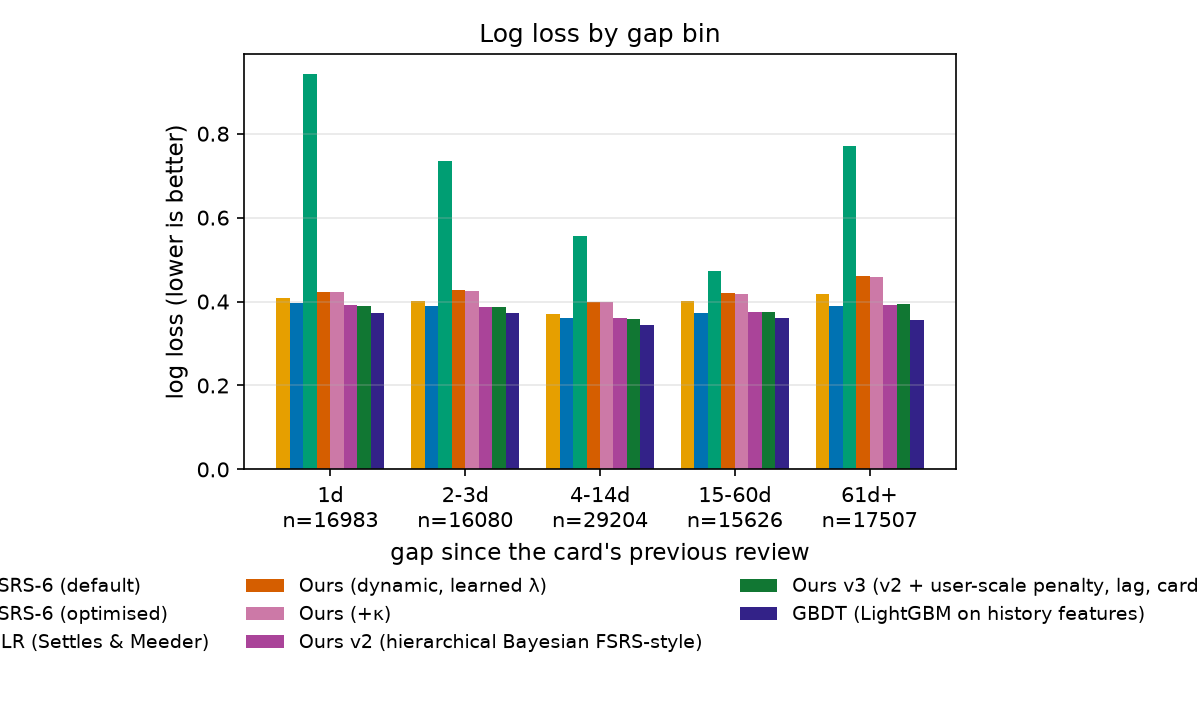
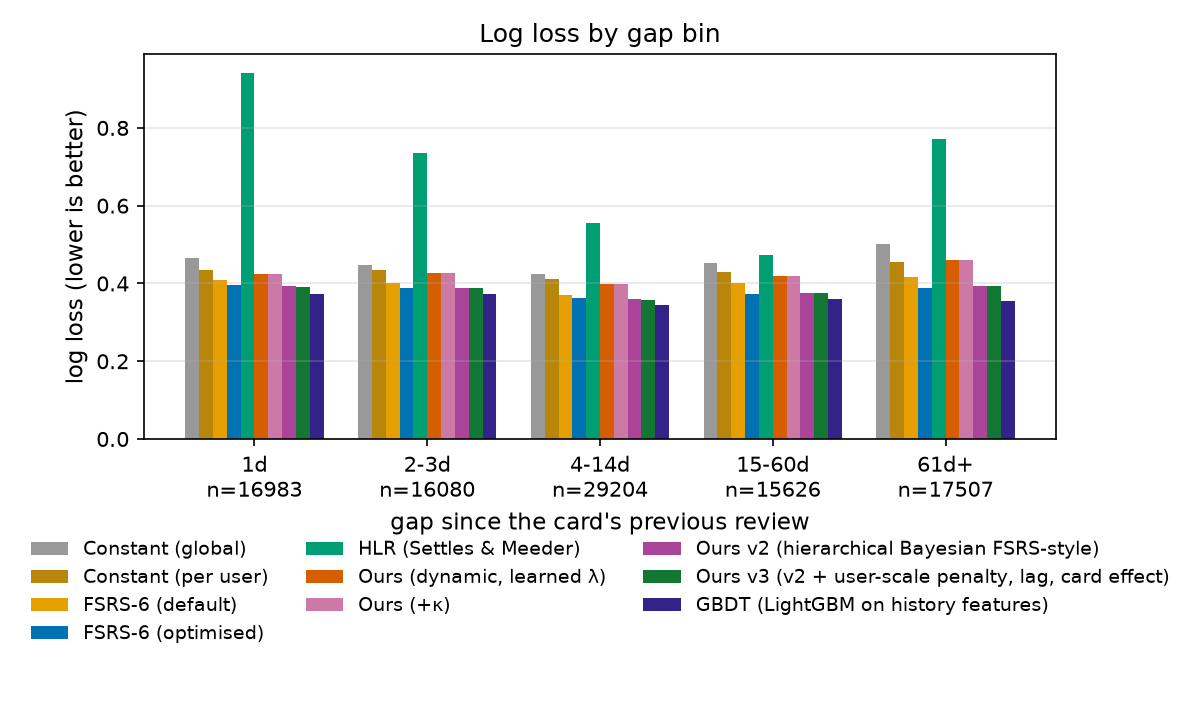
Paper phase 1 closed: report; Anki final report rebuilt with constants

Changed region(s): [[0.0, 0.0917, 1.0, 0.9167], [0.0925, 0.5806, 0.1233, 0.6111]]

diff --git a/results/full_u100_c1000_final/report.md b/results/full_u100_c1000_final/report.md
@@ -28,6 +28,8 @@ n/a: model reused from an interrupted earlier run via --resume; its timing was n
 
 | Model | n | Recall | Log loss | Brier | AUC | ECE | RMSE (bins) | Mean bias |
 |---|---|---|---|---|---|---|---|---|
+| Constant (global) | 95400 | 0.831 | 0.454 | 0.140 | 0.500 | **0.004** | **0.004** | 0.004 |
+| Constant (per user) | 95400 | 0.831 | 0.431 | 0.135 | 0.669 | 0.031 | 0.051 | -0.003 |
 | FSRS-6 (default) | 95400 | 0.831 | 0.396 | 0.121 | 0.745 | 0.012 | 0.017 | 0.011 |
 | FSRS-6 (optimised) | 95400 | 0.831 | 0.379 | 0.117 | 0.777 | 0.009 | 0.014 | -0.002 |
 | HLR (Settles & Meeder) | 95400 | 0.831 | 0.680 | 0.170 | 0.555 | 0.146 | 0.176 | 0.060 |
@@ -35,7 +37,7 @@ n/a: model reused from an interrupted earlier run via --resume; its timing was n
 | Ours (+κ) | 95400 | 0.831 | 0.422 | 0.131 | 0.693 | 0.026 | 0.032 | 0.011 |
 | Ours v2 (hierarchical Bayesian FSRS-style) | 95400 | 0.831 | 0.379 | 0.117 | 0.778 | 0.013 | 0.020 | -0.009 |
 | Ours v3 (v2 + user-scale penalty, lag, card effect) | 95400 | 0.831 | 0.378 | 0.117 | 0.779 | 0.010 | 0.018 | -0.007 |
-| GBDT (LightGBM on history features) | 95400 | 0.831 | **0.358** | **0.111** | **0.805** | **0.005** | **0.010** | **0.002** |
+| GBDT (LightGBM on history features) | 95400 | 0.831 | **0.358** | **0.111** | **0.805** | 0.005 | 0.010 | **0.002** |
 
 Best value per column in bold. Mean bias is closest to zero.
 
@@ -45,6 +47,8 @@ Best value per column in bold. Mean bias is closest to zero.
 
 | Model | Recall | Log loss | Brier | AUC | ECE | Mean bias |
 |---|---|---|---|---|---|---|
+| Constant (global) | 0.825 | 0.465 | 0.145 | 0.500 | 0.010 | 0.010 |
+| Constant (per user) | 0.825 | 0.434 | 0.138 | 0.683 | 0.027 | -0.011 |
 | FSRS-6 (default) | 0.825 | 0.409 | 0.126 | 0.748 | 0.020 | 0.017 |
 | FSRS-6 (optimised) | 0.825 | 0.396 | 0.122 | 0.769 | 0.017 | 0.010 |
 | HLR (Settles & Meeder) | 0.825 | 0.942 | 0.172 | 0.658 | 0.170 | 0.170 |
@@ -58,19 +62,23 @@ Best value per column in bold. Mean bias is closest to zero.
 
 | Model | Recall | Log loss | Brier | AUC | ECE | Mean bias |
 |---|---|---|---|---|---|---|
+| Constant (global) | 0.835 | 0.449 | 0.138 | 0.500 | **0.000** | **-0.000** |
+| Constant (per user) | 0.835 | 0.434 | 0.136 | 0.654 | 0.034 | -0.033 |
 | FSRS-6 (default) | 0.835 | 0.402 | 0.124 | 0.730 | 0.021 | 0.016 |
-| FSRS-6 (optimised) | 0.835 | 0.389 | 0.121 | 0.755 | 0.013 | **-0.006** |
+| FSRS-6 (optimised) | 0.835 | 0.389 | 0.121 | 0.755 | 0.013 | -0.006 |
 | HLR (Settles & Meeder) | 0.835 | 0.734 | 0.160 | 0.637 | 0.153 | 0.153 |
 | Ours (dynamic, learned λ) | 0.835 | 0.426 | 0.134 | 0.676 | 0.033 | -0.027 |
 | Ours (+κ) | 0.835 | 0.426 | 0.134 | 0.677 | 0.035 | -0.027 |
 | Ours v2 (hierarchical Bayesian FSRS-style) | 0.835 | 0.388 | 0.121 | 0.759 | 0.014 | -0.013 |
 | Ours v3 (v2 + user-scale penalty, lag, card effect) | 0.835 | 0.387 | 0.121 | 0.758 | 0.014 | -0.011 |
-| GBDT (LightGBM on history features) | 0.835 | **0.372** | **0.116** | **0.782** | **0.009** | -0.007 |
+| GBDT (LightGBM on history features) | 0.835 | **0.372** | **0.116** | **0.782** | 0.009 | -0.007 |
 
 ### 4-14d (n = 29204)
 
 | Model | Recall | Log loss | Brier | AUC | ECE | Mean bias |
 |---|---|---|---|---|---|---|
+| Constant (global) | 0.849 | 0.424 | 0.128 | 0.500 | 0.015 | -0.015 |
+| Constant (per user) | 0.849 | 0.413 | 0.127 | 0.649 | 0.039 | -0.037 |
 | FSRS-6 (default) | 0.849 | 0.369 | 0.110 | 0.737 | 0.017 | 0.006 |
 | FSRS-6 (optimised) | 0.849 | 0.361 | 0.109 | 0.760 | 0.017 | -0.015 |
 | HLR (Settles & Meeder) | 0.849 | 0.555 | 0.141 | 0.616 | 0.123 | 0.123 |
@@ -84,19 +92,23 @@ Best value per column in bold. Mean bias is closest to zero.
 
 | Model | Recall | Log loss | Brier | AUC | ECE | Mean bias |
 |---|---|---|---|---|---|---|
+| Constant (global) | 0.832 | 0.453 | 0.140 | 0.500 | **0.003** | **0.003** |
+| Constant (per user) | 0.832 | 0.430 | 0.133 | 0.671 | 0.049 | 0.017 |
 | FSRS-6 (default) | 0.832 | 0.401 | 0.121 | 0.725 | 0.026 | 0.021 |
 | FSRS-6 (optimised) | 0.832 | 0.374 | 0.114 | 0.781 | 0.009 | 0.008 |
 | HLR (Settles & Meeder) | 0.832 | 0.473 | 0.143 | 0.599 | 0.076 | 0.075 |
 | Ours (dynamic, learned λ) | 0.832 | 0.419 | 0.130 | 0.703 | 0.040 | 0.036 |
 | Ours (+κ) | 0.832 | 0.419 | 0.130 | 0.705 | 0.040 | 0.036 |
-| Ours v2 (hierarchical Bayesian FSRS-style) | 0.832 | 0.375 | 0.115 | 0.779 | 0.009 | **0.005** |
-| Ours v3 (v2 + user-scale penalty, lag, card effect) | 0.832 | 0.375 | 0.115 | 0.779 | **0.008** | 0.008 |
+| Ours v2 (hierarchical Bayesian FSRS-style) | 0.832 | 0.375 | 0.115 | 0.779 | 0.009 | 0.005 |
+| Ours v3 (v2 + user-scale penalty, lag, card effect) | 0.832 | 0.375 | 0.115 | 0.779 | 0.008 | 0.008 |
 | GBDT (LightGBM on history features) | 0.832 | **0.360** | **0.111** | **0.799** | 0.014 | 0.011 |
 
 ### 61d+ (n = 17507)
 
 | Model | Recall | Log loss | Brier | AUC | ECE | Mean bias |
 |---|---|---|---|---|---|---|
+| Constant (global) | 0.802 | 0.501 | 0.160 | 0.500 | 0.032 | 0.032 |
+| Constant (per user) | 0.802 | 0.456 | 0.145 | 0.738 | 0.068 | 0.068 |
 | FSRS-6 (default) | 0.802 | 0.418 | 0.130 | 0.771 | **0.011** | 0.002 |
 | FSRS-6 (optimised) | 0.802 | 0.389 | 0.124 | 0.817 | 0.027 | 0.003 |
 | HLR (Settles & Meeder) | 0.802 | 0.771 | 0.248 | 0.628 | 0.249 | -0.249 |
@@ -114,6 +126,14 @@ Bootstrap: 1000 user-cluster resamples with replacement, seed 0, 95% percentile 
 
 | Comparison | Metric | Diff | 95% CI |
 |---|---|---|---|
+| Constant (global) - FSRS-6 (optimised) | log_loss | 0.075 | [0.059, 0.095] * |
+| Constant (global) - FSRS-6 (optimised) | brier | 0.024 | [0.018, 0.032] * |
+| Constant (global) - FSRS-6 (optimised) | auc | -0.277 | [-0.305, -0.250] * |
+| Constant (global) - FSRS-6 (optimised) | ece | -0.006 | [-0.015, 0.022] |
+| Constant (per user) - FSRS-6 (optimised) | log_loss | 0.051 | [0.039, 0.067] * |
+| Constant (per user) - FSRS-6 (optimised) | brier | 0.018 | [0.013, 0.024] * |
+| Constant (per user) - FSRS-6 (optimised) | auc | -0.108 | [-0.141, -0.082] * |
+| Constant (per user) - FSRS-6 (optimised) | ece | 0.022 | [0.005, 0.038] * |
 | FSRS-6 (default) - FSRS-6 (optimised) | log_loss | 0.017 | [0.008, 0.025] * |
 | FSRS-6 (default) - FSRS-6 (optimised) | brier | 0.004 | [0.002, 0.006] * |
 | FSRS-6 (default) - FSRS-6 (optimised) | auc | -0.032 | [-0.047, -0.016] * |
@@ -142,6 +162,14 @@ Bootstrap: 1000 user-cluster resamples with replacement, seed 0, 95% percentile 
 | GBDT (LightGBM on history features) - FSRS-6 (optimised) | brier | -0.006 | [-0.008, -0.004] * |
 | GBDT (LightGBM on history features) - FSRS-6 (optimised) | auc | 0.028 | [0.019, 0.040] * |
 | GBDT (LightGBM on history features) - FSRS-6 (optimised) | ece | -0.004 | [-0.013, 0.001] |
+| Constant (global) - Ours (dynamic, learned λ) | log_loss | 0.032 | [0.016, 0.050] * |
+| Constant (global) - Ours (dynamic, learned λ) | brier | 0.009 | [0.005, 0.014] * |
+| Constant (global) - Ours (dynamic, learned λ) | auc | -0.192 | [-0.232, -0.153] * |
+| Constant (global) - Ours (dynamic, learned λ) | ece | -0.022 | [-0.031, 0.007] |
+| Constant (per user) - Ours (dynamic, learned λ) | log_loss | 0.009 | [0.004, 0.014] * |
+| Constant (per user) - Ours (dynamic, learned λ) | brier | 0.003 | [0.002, 0.005] * |
+| Constant (per user) - Ours (dynamic, learned λ) | auc | -0.023 | [-0.036, -0.013] * |
+| Constant (per user) - Ours (dynamic, learned λ) | ece | 0.006 | [-0.006, 0.017] |
 | FSRS-6 (default) - Ours (dynamic, learned λ) | log_loss | -0.026 | [-0.042, -0.013] * |
 | FSRS-6 (default) - Ours (dynamic, learned λ) | brier | -0.011 | [-0.015, -0.007] * |
 | FSRS-6 (default) - Ours (dynamic, learned λ) | auc | 0.053 | [0.023, 0.087] * |
@@ -177,6 +205,8 @@ Bootstrap: 1000 user-cluster resamples with replacement, seed 0, 95% percentile 
 
 | Comparison | Users | Users with lower log loss | Share |
 |---|---|---|---|
+| Constant (global) vs FSRS-6 (optimised) | 100 | 11 | 0.110 |
+| Constant (per user) vs FSRS-6 (optimised) | 100 | 23 | 0.230 |
 | FSRS-6 (default) vs FSRS-6 (optimised) | 100 | 28 | 0.280 |
 | HLR (Settles & Meeder) vs FSRS-6 (optimised) | 100 | 7 | 0.070 |
 | Ours (dynamic, learned λ) vs FSRS-6 (optimised) | 100 | 22 | 0.220 |
@@ -184,6 +214,8 @@ Bootstrap: 1000 user-cluster resamples with replacement, seed 0, 95% percentile 
 | Ours v2 (hierarchical Bayesian FSRS-style) vs FSRS-6 (optimised) | 100 | 56 | 0.560 |
 | Ours v3 (v2 + user-scale penalty, lag, card effect) vs FSRS-6 (optimised) | 100 | 58 | 0.580 |
 | GBDT (LightGBM on history features) vs FSRS-6 (optimised) | 100 | 82 | 0.820 |
+| Constant (global) vs Ours (dynamic, learned λ) | 100 | 32 | 0.320 |
+| Constant (per user) vs Ours (dynamic, learned λ) | 100 | 46 | 0.460 |
 | FSRS-6 (default) vs Ours (dynamic, learned λ) | 100 | 68 | 0.680 |
 | FSRS-6 (optimised) vs Ours (dynamic, learned λ) | 100 | 78 | 0.780 |
 | HLR (Settles & Meeder) vs Ours (dynamic, learned λ) | 100 | 14 | 0.140 |

diff --git a/paper/docs/reports/phase-1.md b/paper/docs/reports/phase-1.md
@@ -1,0 +1,25 @@
+# Paper Phase 1 report: closing the evidence gaps (2026-11-15)
+
+## What was built
+- **Constant floors in `fsrs_benchmark/report.py`** (1.1, 1.2). There are three: `const_global`, `const_user` and `const_user_smooth`. The smoothed version shrinks each user's rate toward the global rate with a pseudo-count m = 10, fixed in advance. The rates come from TRAIN rows that are not first reviews and have a gap of at least 1 day. A check confirms that events.parquet matches the predictions. Bold marks in the tables skip the constants.
+- **Paired references** (1.2c): `fsrs_opt`, `ours`, `ours_gpu` and `const_user_smooth`.
+- **Fast weighted paired bootstrap** (1.2b) in `metrics.py`. It uses the same RNG draws as the old code and agrees with it to 1e-12. The Duolingo report now builds in 18 min instead of about 5 h (68 min once the extra references are included).
+- **Paper result sets**: `results/paper_anki/` and `results/paper_duolingo/`, which are symlinks plus a rebuilt Duolingo predictions.parquet.
+- **`fsrs_benchmark/paper_export.py`** writes `paper/data/*.csv` and `paper/FACTS.md`, the single source of numbers. It has three sections: anki, duolingo and anki_seeds. Each line cites its source file.
+- **Anki robustness** (1.3): seeds 1 and 2 were run on Kaggle (notebook `notebook8f676349c8`, private dataset `axiom-paper-code`, `HF_TOKEN` secret). Each seed is 100 users, and the samples overlap seed 0 by only 1 user each.
+
+## Key results (sources in FACTS.md)
+- Duolingo: the smoothed per-user constant scores 0.2723. It beats FSRS-opt (0.3003), v3 (0.2830), v2, LagLogit and HLR. Only GBDT (−0.0135 vs that floor) and v1 (−0.0040 [−0.0045, −0.0035]) beat it.
+- Anki: every model except HLR beats the floors. v1 beats the smoothed constant by only −0.0086.
+- GBDT minus FSRS-opt on Anki is −0.0210, −0.0226 and −0.0210 for seeds 0, 1 and 2. Every CI excludes 0.
+
+## Tests
+- Every test file was run one per process, 43 files in all. The only failure is the known `test_task52_54_verify.py::test_resume_config_records_thin_for_gpu_draws`, plus one expected xfail.
+- The verifier checked every FACTS line against the reports by script, with no mismatches.
+
+## Known limits / for later phases
+- See `paper/docs/BACKLOG.md`. The ones that matter for the paper:
+  - the unsmoothed per-user constant is poor on Duolingo (9,351 users have a train rate of exactly 1.0);
+  - FSRS-opt fell back to defaults for 4 users in seed 1 and 6 in seed 2 (not yet in FACTS);
+  - seed 0's FSRS and HLR settings are not recorded in run_info (that run was resumed).
+- The Duolingo report now takes about 68 min, so rebuild it only when necessary.

diff --git a/paper/docs/PLAN.md b/paper/docs/PLAN.md
@@ -43,7 +43,7 @@ paper.
 
 ## Phases
 
-### Phase 1: Close the evidence gaps — IN PROGRESS (1.1, 1.2 and 1.2b DONE; 1.3 on Kaggle in progress; see reports/UPDATE-2026-11-15.md)
+### Phase 1: Close the evidence gaps — DONE (2026-11-15, report: reports/phase-1.md)
 Goal: every number the paper needs exists in a results file, including the constant floor.
 
 - **1.1 Constant-recall baselines.** Add two prediction "models" to `fsrs_benchmark/report.py`.
@@ -89,7 +89,7 @@ Goal: every number the paper needs exists in a results file, including the const
   mean and spread of each model's log loss. v1 is not re-run.
   Done when: the runs finish, are reported, and are added to FACTS.md.
 
-### Phase 2: srs-benchmark comparison — TODO
+### Phase 2: srs-benchmark comparison — IN PROGRESS (2.1, 2.2 done; 2.3 running on Kaggle)
 Goal: compare the GBDT directly with RWKV, LSTM, GRU and FSRS-6 on the public srs-benchmark
 (about 10k Anki users).
 - **2.1 Scoping (no heavy runs).** Clone `open-spaced-repetition/srs-benchmark` into
@@ -113,7 +113,7 @@ Goal: compare the GBDT directly with RWKV, LSTM, GRU and FSRS-6 on the public sr
 - **2.3 Kaggle run.** Set A is 500 users and set B is 1,000 users, all disjoint. Bring the jsonl back,
   run compare.py, and add the numbers to FACTS.md (a new srs-benchmark section).
 
-### Phase 3: Write the paper — TODO
+### Phase 3: Write the paper — IN PROGRESS (3.1, 3.2 done; 3.3 in review)
 EDM template, LaTeX in `paper/`. All numbers come from FACTS.md. The submission is
 anonymous, double-blind.
 - 3.1 Template, skeleton, bib and the build script.
